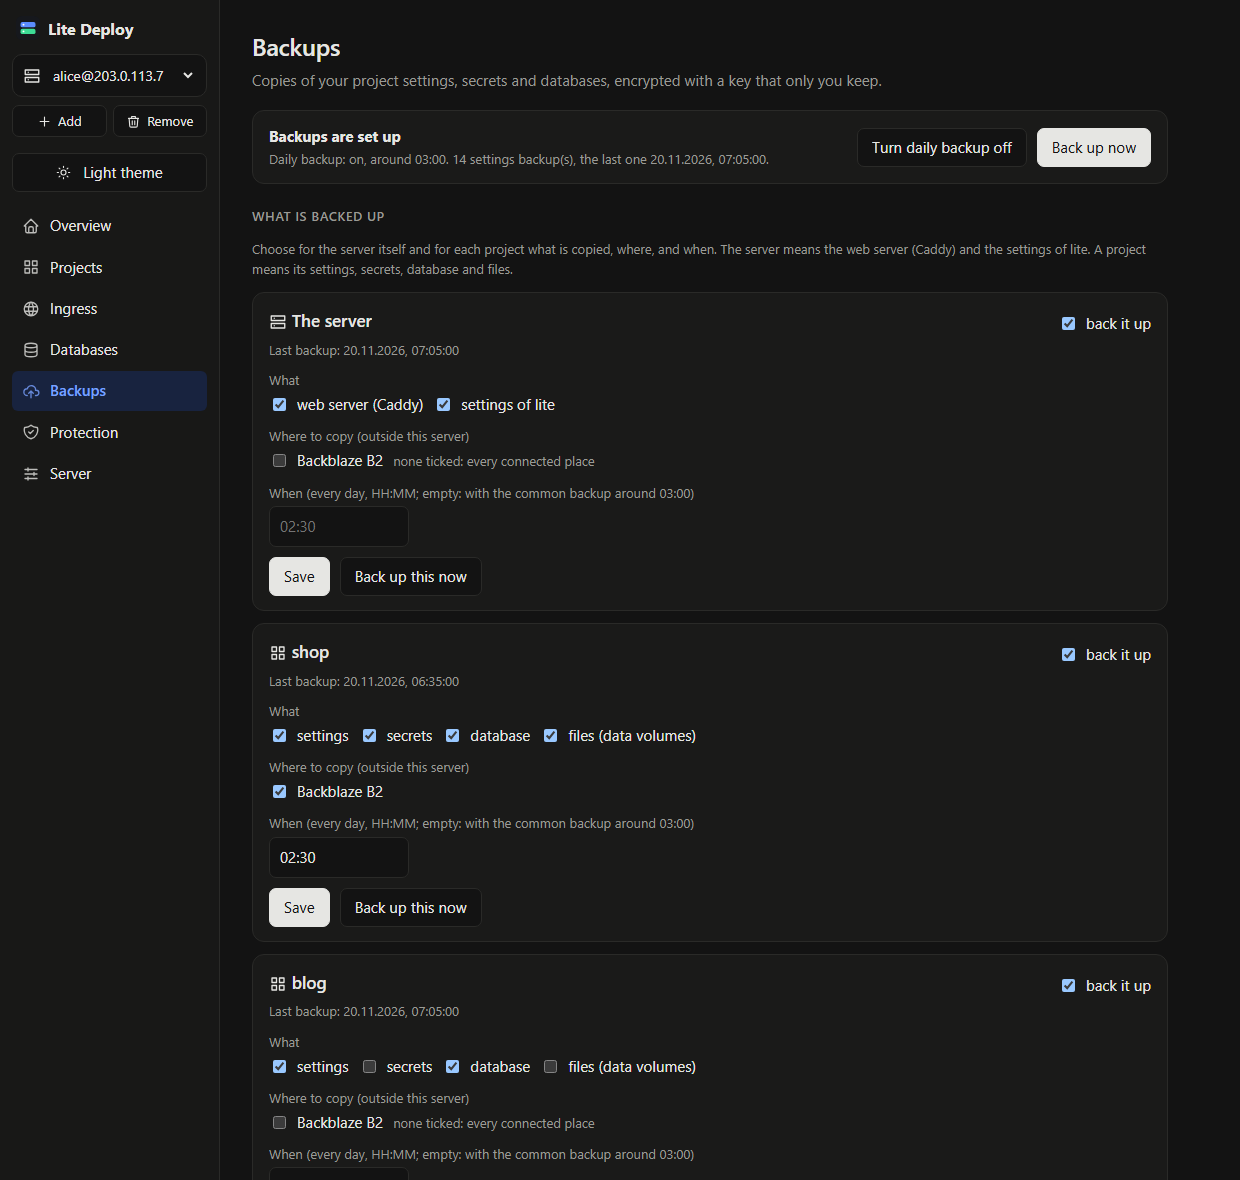
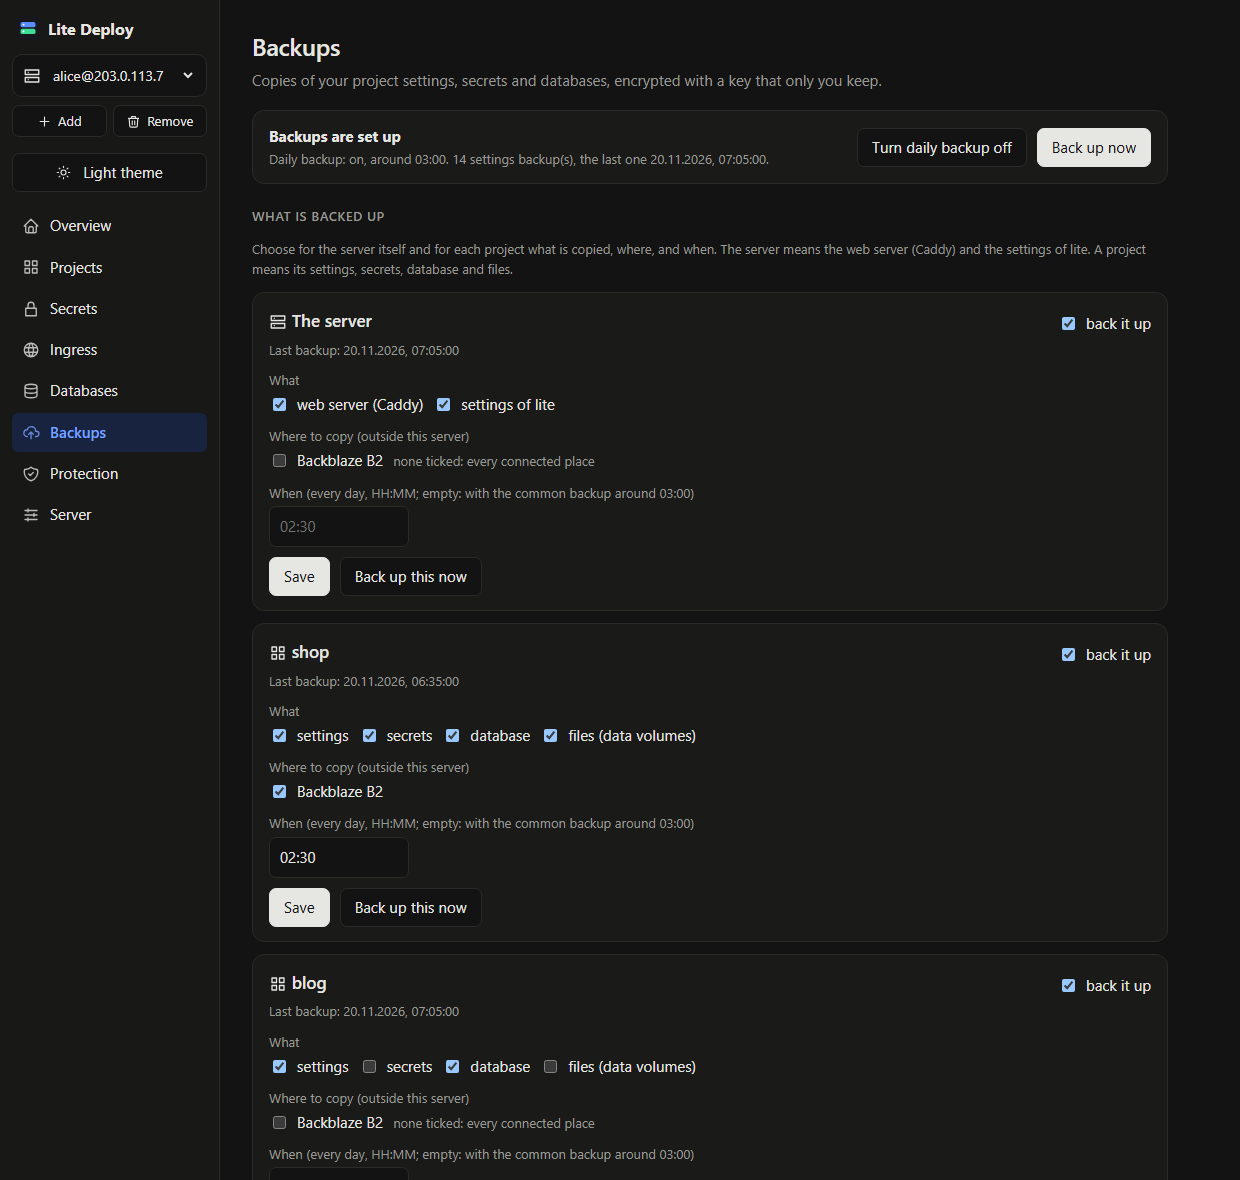
Secrets: the shared secrets of the server are a menu item, not a hidden button

Changed region(s): [[0.0, 0.2441, 0.1839, 0.4576]]

diff --git a/internal/ui/web/js/secret-panel.js b/internal/ui/web/js/secret-panel.js
@@ -13,7 +13,7 @@
   <table v-if="rows.length"><tr><th>Name</th><th>State</th><th>New value</th><th></th></tr>\
     <tr v-for="r in rows" :key="r.name"><td><code>{{ r.name }}</code></td>\
       <td :class="r.isSet ? \'up\' : \'warntxt\'">{{ r.isSet ? "set" + (r.when ? ", " + r.when : "") : "missing" }}{{ r.shared ? " (shared)" : "" }}</td>\
-      <td><input v-if="!r.shared" type="password" v-model="values[r.name]" autocomplete="off" placeholder="type a value"><span v-else class="muted">change it in “Shared secrets”</span></td>\
+      <td><input v-if="!r.shared" type="password" v-model="values[r.name]" autocomplete="off" placeholder="type a value"><span v-else class="muted">change it in Secrets (the menu)</span></td>\
       <td style="white-space:nowrap" v-if="!r.shared"><button class="primary" @click="save(r.name, values[r.name])" :disabled="$root.state.busy">Save</button>\
         <button v-if="r.isSet" @click="remove(r.name)" :disabled="$root.state.busy"><icon name="trash"></icon></button></td><td v-else></td></tr></table>\
   <p v-else class="muted">This project has no secrets.</p>\

diff --git a/internal/ui/web/js/projects.js b/internal/ui/web/js/projects.js
@@ -59,13 +59,12 @@
   };
 
   LU.components.Projects = {
-    data: function () { return { projects: null, error: '', creating: location.hash === '#projects/new', shared: false }; },
+    data: function () { return { projects: null, error: '', creating: location.hash === '#projects/new' }; },
     template: '\
 <div>\
   <div class="row spread"><div><h1>Projects</h1><p class="sub">Your applications on this server.</p></div>\
-    <div class="row"><button @click="shared = !shared"><icon name="shield"></icon>{{ shared ? "Hide shared secrets" : "Shared secrets" }}</button>\
+    <div class="row">\
     <button class="primary" @click="creating = !creating"><icon :name="creating ? \'check\' : \'plus\'"></icon>{{ creating ? "Close" : "New project" }}</button></div></div>\
-  <secrets-panel v-if="shared" project="shared" style="margin-bottom:12px"></secrets-panel>\
   <new-project v-if="creating" @created="created"></new-project>\
   <p v-if="error" class="down">{{ error }}</p>\
   <p v-if="projects && !projects.length && !creating" class="empty">No projects yet. Press “New project”.</p>\

diff --git a/internal/ui/web/js/main.js b/internal/ui/web/js/main.js
@@ -3,6 +3,7 @@
   var ALL = [
     { id: 'overview', title: 'Overview', icon: 'home', comp: 'overview' },
     { id: 'projects', title: 'Projects', icon: 'apps', comp: 'projects' },
+    { id: 'secrets', title: 'Secrets', icon: 'lock', comp: 'shared-secrets' },
     { id: 'ingress', title: 'Ingress', icon: 'world', comp: 'ingress' },
     { id: 'databases', title: 'Databases', icon: 'database', plugin: 'pg', comp: 'databases' },
     { id: 'backups', title: 'Backups', icon: 'backup', plugin: 'backup', comp: 'backups' },
@@ -72,6 +73,7 @@
   app.component('overview', C.Overview);
   app.component('projects', C.Projects);
   app.component('ingress', C.Ingress);
+  app.component('shared-secrets', C.SharedSecrets);
   app.component('databases', C.Databases);
   app.component('backups', C.Backups);
   app.component('store-form', C.StoreForm);

diff --git a/internal/ui/web/js/shared-secrets.js b/internal/ui/web/js/shared-secrets.js
@@ -1,0 +1,12 @@
+(function () {
+  // The secrets of the whole server: those that several projects use (for example one registry token for all of them).
+  // The secrets of one project are on its card in Projects.
+  LU.components.SharedSecrets = {
+    template: '\
+<div>\
+  <h1>Secrets</h1>\
+  <p class="sub">Secrets of the whole server, shared by several projects. A project uses one by writing <code>shared:NAME</code>. The secrets of a single project are on its card in Projects.</p>\
+  <secrets-panel project="shared"></secrets-panel>\
+</div>'
+  };
+})();

diff --git a/internal/ui/web/js/icons.js b/internal/ui/web/js/icons.js
@@ -10,6 +10,7 @@
     settings: 'M4 6h16 M4 12h16 M4 18h16 M8 4v4 M16 10v4 M8 16v4',
     server: 'M3 4h18v6H3z M3 14h18v6H3z M7 7v.01 M7 17v.01',
     plus: 'M12 5v14 M5 12h14',
+    lock: 'M5 11h14v10H5z M8 11V7a4 4 0 0 1 8 0v4',
     refresh: 'M20 11a8 8 0 1 0-2 5.5 M20 4v7h-7',
     alert: 'M12 3l10 18H2z M12 10v4 M12 17v.01',
     info: 'M3 12a9 9 0 1 0 18 0a9 9 0 1 0-18 0 M12 8v.01 M11 12h1v4h1',

diff --git a/internal/ui/web/index.html b/internal/ui/web/index.html
@@ -16,6 +16,7 @@
 <script src="/static/js/overview.js"></script>
 <script src="/static/js/secret-panel.js"></script>
 <script src="/static/js/projects.js"></script>
+<script src="/static/js/shared-secrets.js"></script>
 <script src="/static/js/new-project.js"></script>
 <script src="/static/js/databases.js"></script>
 <script src="/static/js/backups.js"></script>

diff --git a/TESTING.md b/TESTING.md
@@ -49,7 +49,7 @@ Repeat the creation once more with the same form and **Create project**: every s
 
 ## 1c. Shared secrets and the server file
 
-1. **Projects**, **Shared secrets**: add `registry_token`. In **New project** write `shared:registry_token` in the “Read-only token” box and create the project. Expected: it works without a copy of the token in the project; **Secrets** of the project shows `shared/registry_token` as “set (shared)”.
+1. **Secrets** (in the menu): add `registry_token`. In **New project** write `shared:registry_token` in the “Read-only token” box and create the project. Expected: it works without a copy of the token in the project; **Secrets** of the project shows `shared/registry_token` as “set (shared)”.
 2. **Server**, **Save configuration**. Expected: a file `server.lite-config.json` with your users and their public keys, firewall mode, programs and backup key, and no secret.
 3. Do not run `lite init --config` on this server; keep the file for the next one.
 
